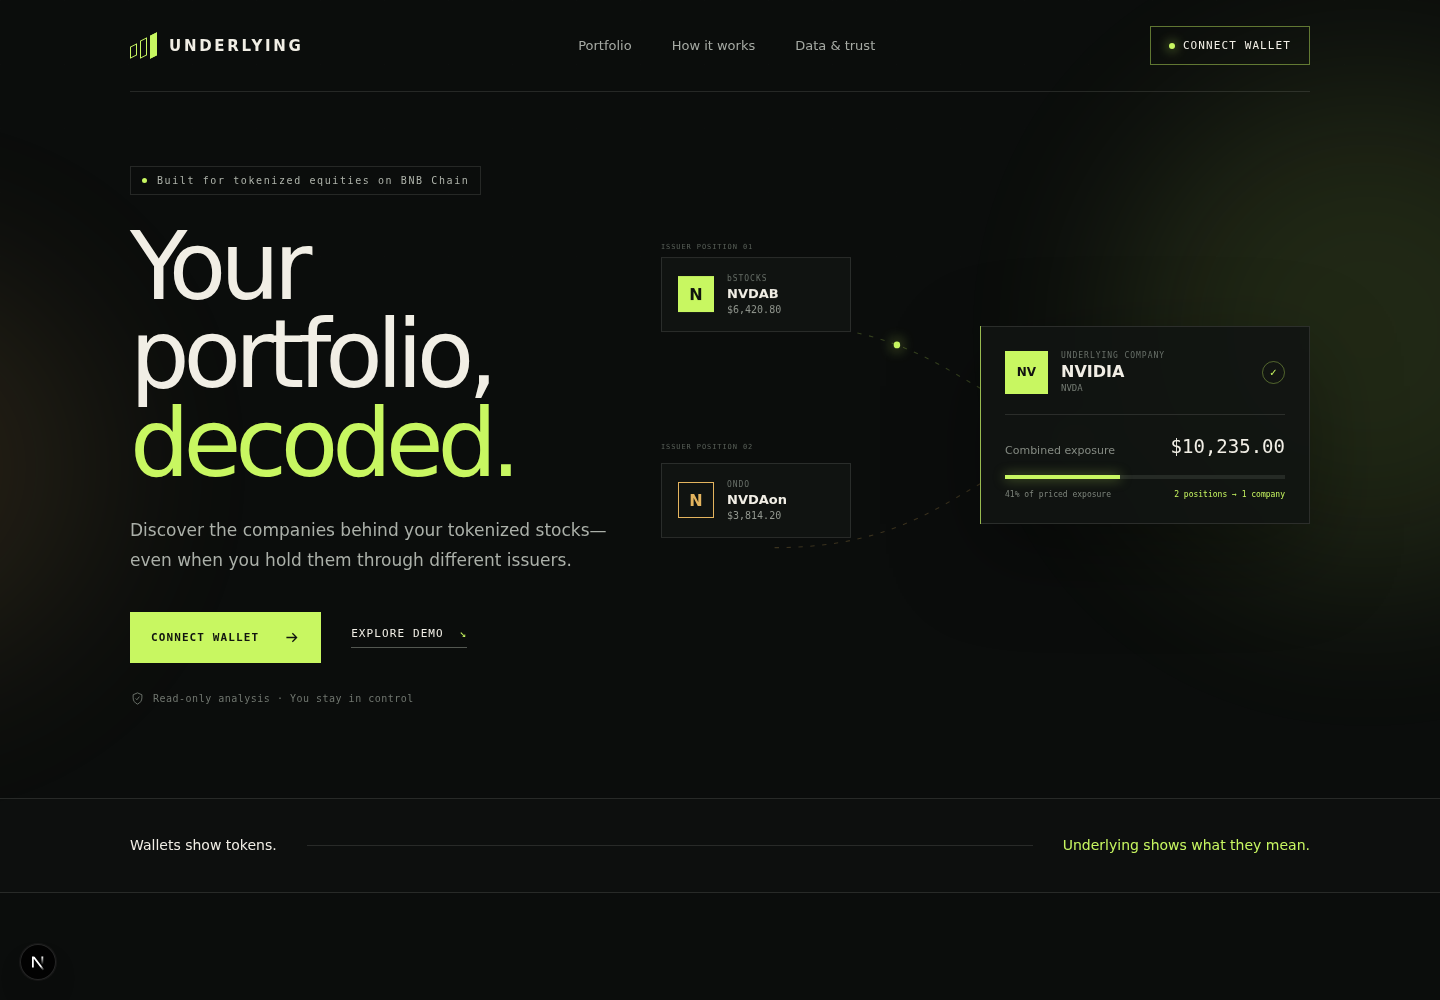
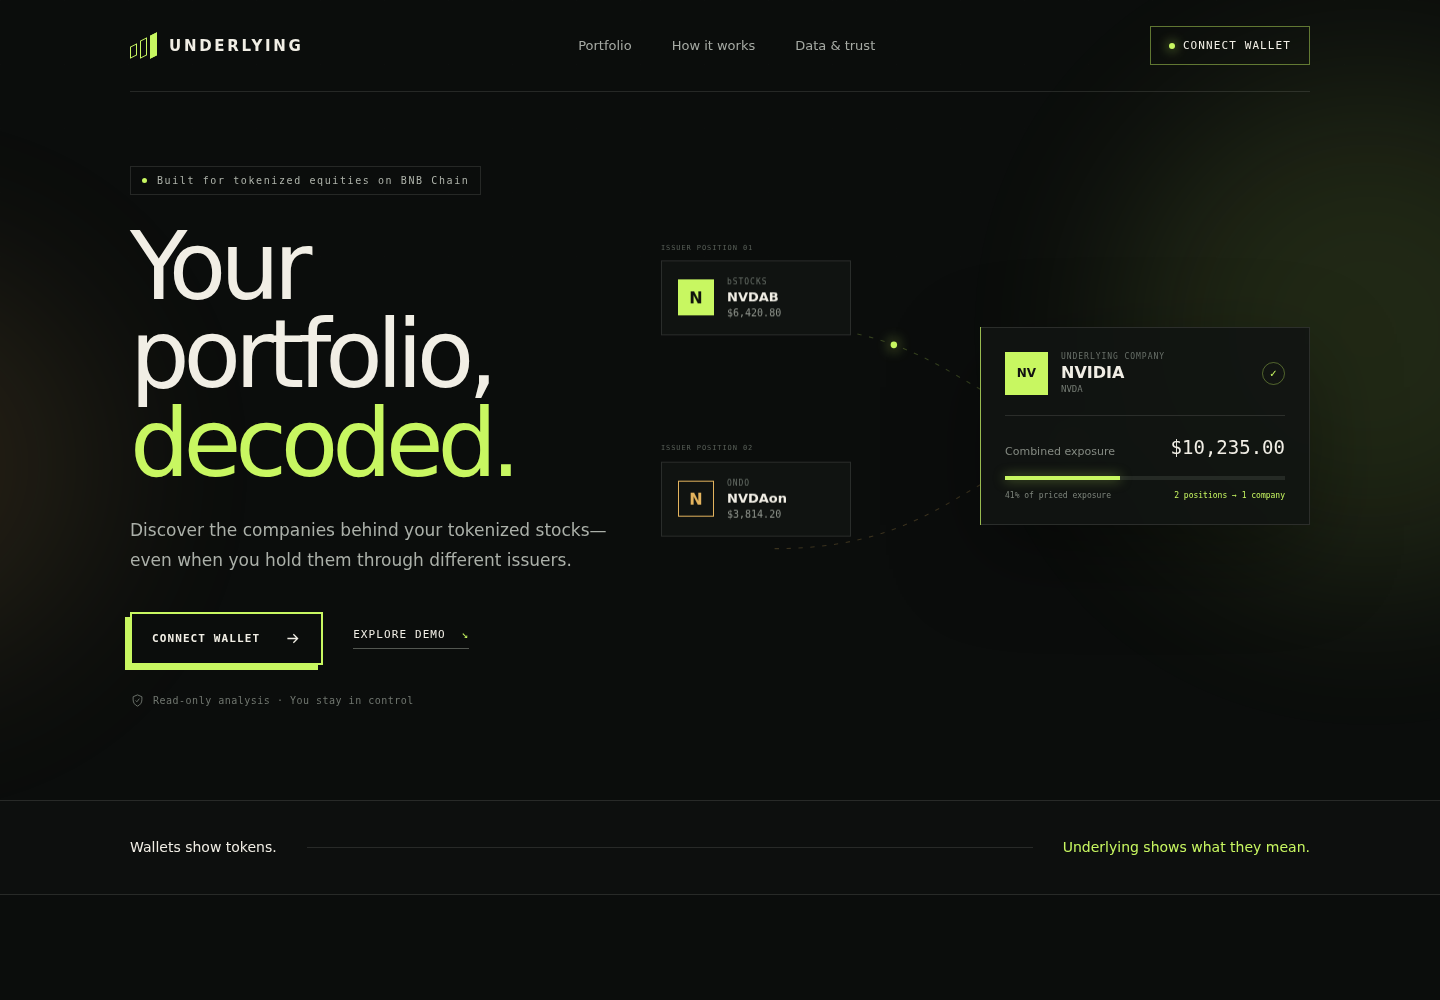
Use visible UIverse interactions

diff --git a/app/globals.css b/app/globals.css
@@ -46,16 +46,10 @@ h1 em, .final-cta h2 em { color: var(--accent); font-style: normal; }
 .primary-button { background: var(--accent); color: #12150f; border: 1px solid var(--accent); padding: 16px 20px; text-transform: uppercase; letter-spacing: .1em; font: 600 11px DM Mono, monospace; display: inline-flex; align-items: center; gap: 24px; cursor: pointer; transition: color .45s, transform .2s, box-shadow .2s; }
 .primary-button:hover { transform: translateY(-2px); box-shadow: 0 12px 32px rgba(200,247,97,.16); }
 .primary-button svg { width: 17px; fill: none; stroke: currentColor; stroke-width: 1.5; }
-/* Adapted from UIverse button by nikk7007: https://uiverse.io/nikk7007/nasty-wasp-56 */
-.uiverse-fill-button { position: relative; overflow: hidden; isolation: isolate; }
-.uiverse-fill-button::before,
-.uiverse-fill-button::after { content: ""; position: absolute; width: 120%; height: 130%; background: #11150f; z-index: -1; transition: transform .45s ease-out; }
-.uiverse-fill-button::before { top: -135%; left: -55%; transform: skew(54deg); }
-.uiverse-fill-button::after { bottom: -135%; right: -55%; transform: skew(54deg); }
-.uiverse-fill-button:hover::before { transform: skew(54deg) translate(45%, 80%); }
-.uiverse-fill-button:hover::after { transform: skew(54deg) translate(-45%, -80%); }
-.uiverse-fill-button:hover { color: var(--accent); }
-.uiverse-fill-button:active { filter: brightness(.82); transform: translateY(0) scale(.98); }
+/* UIverse button by felipesntr: https://uiverse.io/felipesntr/yellow-robin-29 */
+.uiverse-shadow-button { background: #0b0d0c; color: var(--ink); border: 2px solid var(--accent); box-shadow: -5px 5px 0 0 var(--accent); transition: transform .4s cubic-bezier(.68,-.55,.265,1.55), box-shadow .4s cubic-bezier(.68,-.55,.265,1.55); }
+.uiverse-shadow-button:hover { color: var(--ink); transform: translate(5px, -5px); box-shadow: -10px 10px 0 0 var(--accent); }
+.uiverse-shadow-button:active { transform: translate(1px, -1px) scale(.98); box-shadow: -6px 6px 0 0 var(--accent); }
 .text-button { font: 500 11px DM Mono, monospace; letter-spacing: .1em; text-transform: uppercase; border-bottom: 1px solid #535751; padding-bottom: 7px; }
 .text-button span { color: var(--accent); margin-left: 8px; }
 .read-only { margin-top: 28px; color: #70766f; font: 400 10px DM Mono, monospace; letter-spacing: .05em; display: flex; align-items: center; gap: 8px; }
@@ -85,7 +79,12 @@ h1 em, .final-cta h2 em { color: var(--accent); font-style: normal; }
 .proof-strip { border-block: 1px solid var(--line); background: rgba(255,255,255,.012); }.proof-inner { height: 93px; display: flex; align-items: center; gap: 30px; }.proof-inner p { font-size: 14px; }.proof-rule { flex: 1; height: 1px; background: var(--line); }.proof-inner .accent-copy { color: var(--accent); }
 .preview-section { padding-block: 125px; }.section-heading { display: flex; justify-content: space-between; align-items: flex-end; margin-bottom: 56px; }.section-heading h2, .trust-card h2, .final-cta h2 { font-size: clamp(38px, 5vw, 62px); letter-spacing: -.05em; line-height: 1.08; font-weight: 500; margin: 16px 0 0; }.section-heading > p { width: 380px; color: #858b84; line-height: 1.7; font-size: 14px; }
 .kicker { color: var(--accent); }
-.dashboard-card { border: 1px solid var(--line); background: #0e110f; box-shadow: 0 30px 80px rgba(0,0,0,.2); }.dashboard-top { height: 53px; display: flex; align-items: center; justify-content: space-between; padding: 0 22px; border-bottom: 1px solid var(--line); color: #737970; font: 400 9px DM Mono, monospace; letter-spacing: .12em; }.live-dot { width: 6px; height: 6px; display: inline-block; border-radius: 50%; background: var(--accent); margin-right: 8px; }.dashboard-top b { border: 1px solid var(--line); margin-left: 8px; padding: 3px 5px; color: #a7aca5; }
+.dashboard-card { border: 1px solid var(--line); background: #0e110f; box-shadow: 0 30px 80px rgba(0,0,0,.2); }.dashboard-top { height: 53px; display: flex; align-items: center; justify-content: space-between; padding: 0 22px; border-bottom: 1px solid var(--line); color: #737970; font: 400 9px DM Mono, monospace; letter-spacing: .12em; }.dashboard-top > div { display: flex; align-items: center; }.dashboard-top b { border: 1px solid var(--line); margin-left: 8px; padding: 3px 5px; color: #a7aca5; }
+/* UIverse loader by Shoh2008: https://uiverse.io/Shoh2008/nervous-lizard-11 */
+.uiverse-data-loader { width: 12px; height: 12px; background: rgba(200,247,97,.35); display: inline-block; margin-right: 10px; position: relative; animation: rotationBack 2.4s ease-in-out infinite reverse; }
+.uiverse-data-loader::before { content: ""; position: absolute; inset: 0; background: rgba(200,247,97,.65); transform: rotate(45deg); box-shadow: 0 0 8px rgba(200,247,97,.32); }
+.uiverse-data-loader::after { content: ""; position: absolute; width: 6px; height: 6px; border-radius: 50%; left: 50%; top: 50%; background: var(--accent); transform: translate(-50%,-50%); box-shadow: 0 0 7px rgba(200,247,97,.7); }
+@keyframes rotationBack { to { transform: rotate(-360deg); } }
 /* Adapted from UIverse glow card by alexruix: https://uiverse.io/alexruix/heavy-elephant-39 */
 .uiverse-glow-card { position: relative; isolation: isolate; }
 .uiverse-glow-card::before { content: ""; position: absolute; inset: -1px; z-index: -2; background: linear-gradient(120deg, rgba(200,247,97,.56), rgba(228,180,94,.16) 38%, rgba(200,247,97,.04) 70%); opacity: .34; transition: opacity .5s ease; }

diff --git a/app/page.tsx b/app/page.tsx
@@ -47,7 +47,7 @@ export default function Home() {
             Discover the companies behind your tokenized stocks—even when you hold them through different issuers.
           </p>
           <div className="hero-actions">
-            <button className="primary-button uiverse-fill-button">Connect wallet <Arrow /></button>
+            <button className="primary-button uiverse-shadow-button">Connect wallet <Arrow /></button>
             <a className="text-button" href="#preview">Explore demo <span>↘</span></a>
           </div>
           <div className="read-only"><Shield /> Read-only analysis · You stay in control</div>
@@ -101,7 +101,7 @@ export default function Home() {
 
         <div className="dashboard-card uiverse-glow-card">
           <div className="dashboard-top">
-            <div><span className="live-dot" /> DEMO DATA</div>
+            <div><span className="uiverse-data-loader" /> DEMO DATA</div>
             <span>BNB SMART CHAIN <b>56</b></span>
           </div>
           <div className="stats-grid">
@@ -166,7 +166,7 @@ export default function Home() {
         <span className="kicker">SEE BENEATH THE WRAPPERS</span>
         <h2>Your tokens tell one story.<br /><em>Your exposure tells another.</em></h2>
         <div className="hero-actions centered">
-          <button className="primary-button uiverse-fill-button">Connect wallet <Arrow /></button>
+          <button className="primary-button uiverse-shadow-button">Connect wallet <Arrow /></button>
           <a className="text-button" href="#preview">Explore the demo <span>↘</span></a>
         </div>
       </section>

diff --git a/UIVERSE_ATTRIBUTION.md b/UIVERSE_ATTRIBUTION.md
@@ -3,8 +3,9 @@
 The homepage adapts the following open-source UIverse patterns. Colors, sizing,
 content, and motion were changed to fit Underlying's interface.
 
-- Split-fill hover button by **nikk7007**: https://uiverse.io/nikk7007/nasty-wasp-56
+- Offset-shadow hover button by **felipesntr**: https://uiverse.io/felipesntr/yellow-robin-29
 - Glow-border card by **alexruix**: https://uiverse.io/alexruix/heavy-elephant-39
+- Rotating data loader by **Shoh2008**: https://uiverse.io/Shoh2008/nervous-lizard-11
 
 The rest of the homepage and its issuer-to-company convergence animation are
 original to Underlying Lite.
